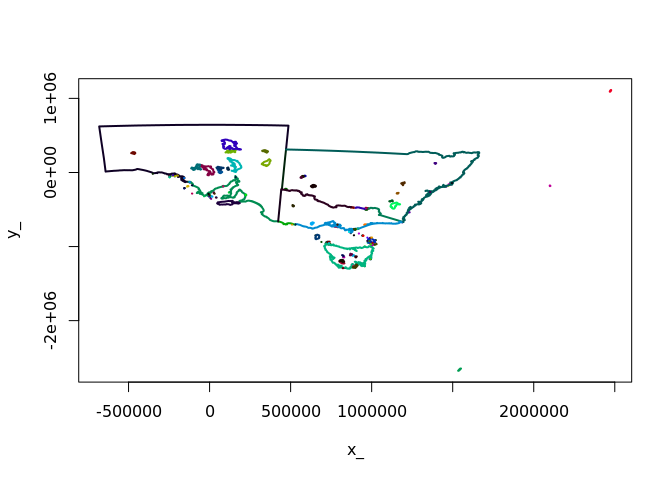
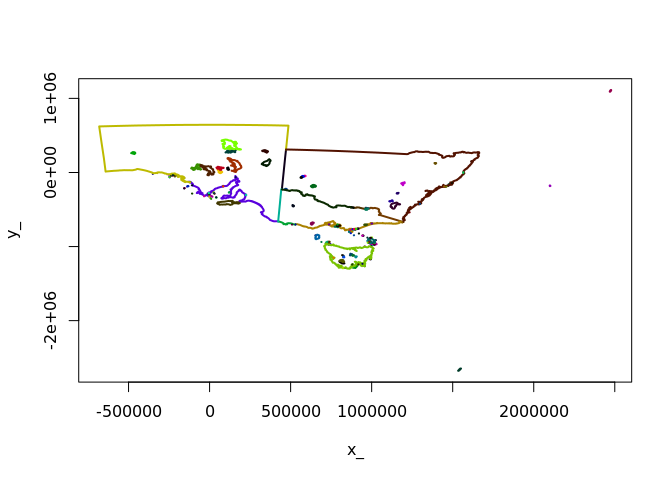
USA!

Changed region(s): [[0.125, 0.25, 0.4688, 0.4688], [0.4375, 0.375, 0.6875, 0.5625], [0.4688, 0.3125, 0.7188, 0.375]]

diff --git a/README.md b/README.md
@@ -6,16 +6,50 @@
 The goal of simpler is to provide the [Visvalingam
 algorithm](https://bost.ocks.org/mike/simplify/) to simplifying paths.
 
+Very much WIP\!
+
+TODO:
+
+  - distinguish shared boundaries from isolate lines, and drop short one
+  - provide methods for various formats, especially polygons to shared
+    boundaries
+  - avoid recalculating every triangle area every iteration
+  - methods to recompose shared paths as polygons
+
 ## Installation
 
 Only from github
 
 ## Example
 
-Simplify a bunch of shared lines between polygons.
+The USA example, from Natural Earth, the slowness here is a good
+motivation to speed up the point cull.
 
 ``` r
 library(simpler)
+w <- rnaturalearth::ne_countries(scale = 10, country = "United States of America", returnclass = "sf")
+x <- w$geometry[[1]][[1]][[1]]
+
+
+op <- par(mfrow = c(3, 3), mar = rep(0, 4))
+plot(x, type = "l", axes = FALSE)
+for (kpc in c(0.4, rep(0.9, 7))) {
+  x <- simplify_path(x, keep_pc = 0.3)
+  plot(x, type = "l", axes = FALSE)
+}
+```
+
+<img src="man/figures/README-usa-1.png" width="100%" />
+
+``` r
+
+par(op)
+```
+
+Simplify a bunch of shared lines between polygons.
+
+``` r
+
 library(silicate)
 #> 
 #> Attaching package: 'silicate'
